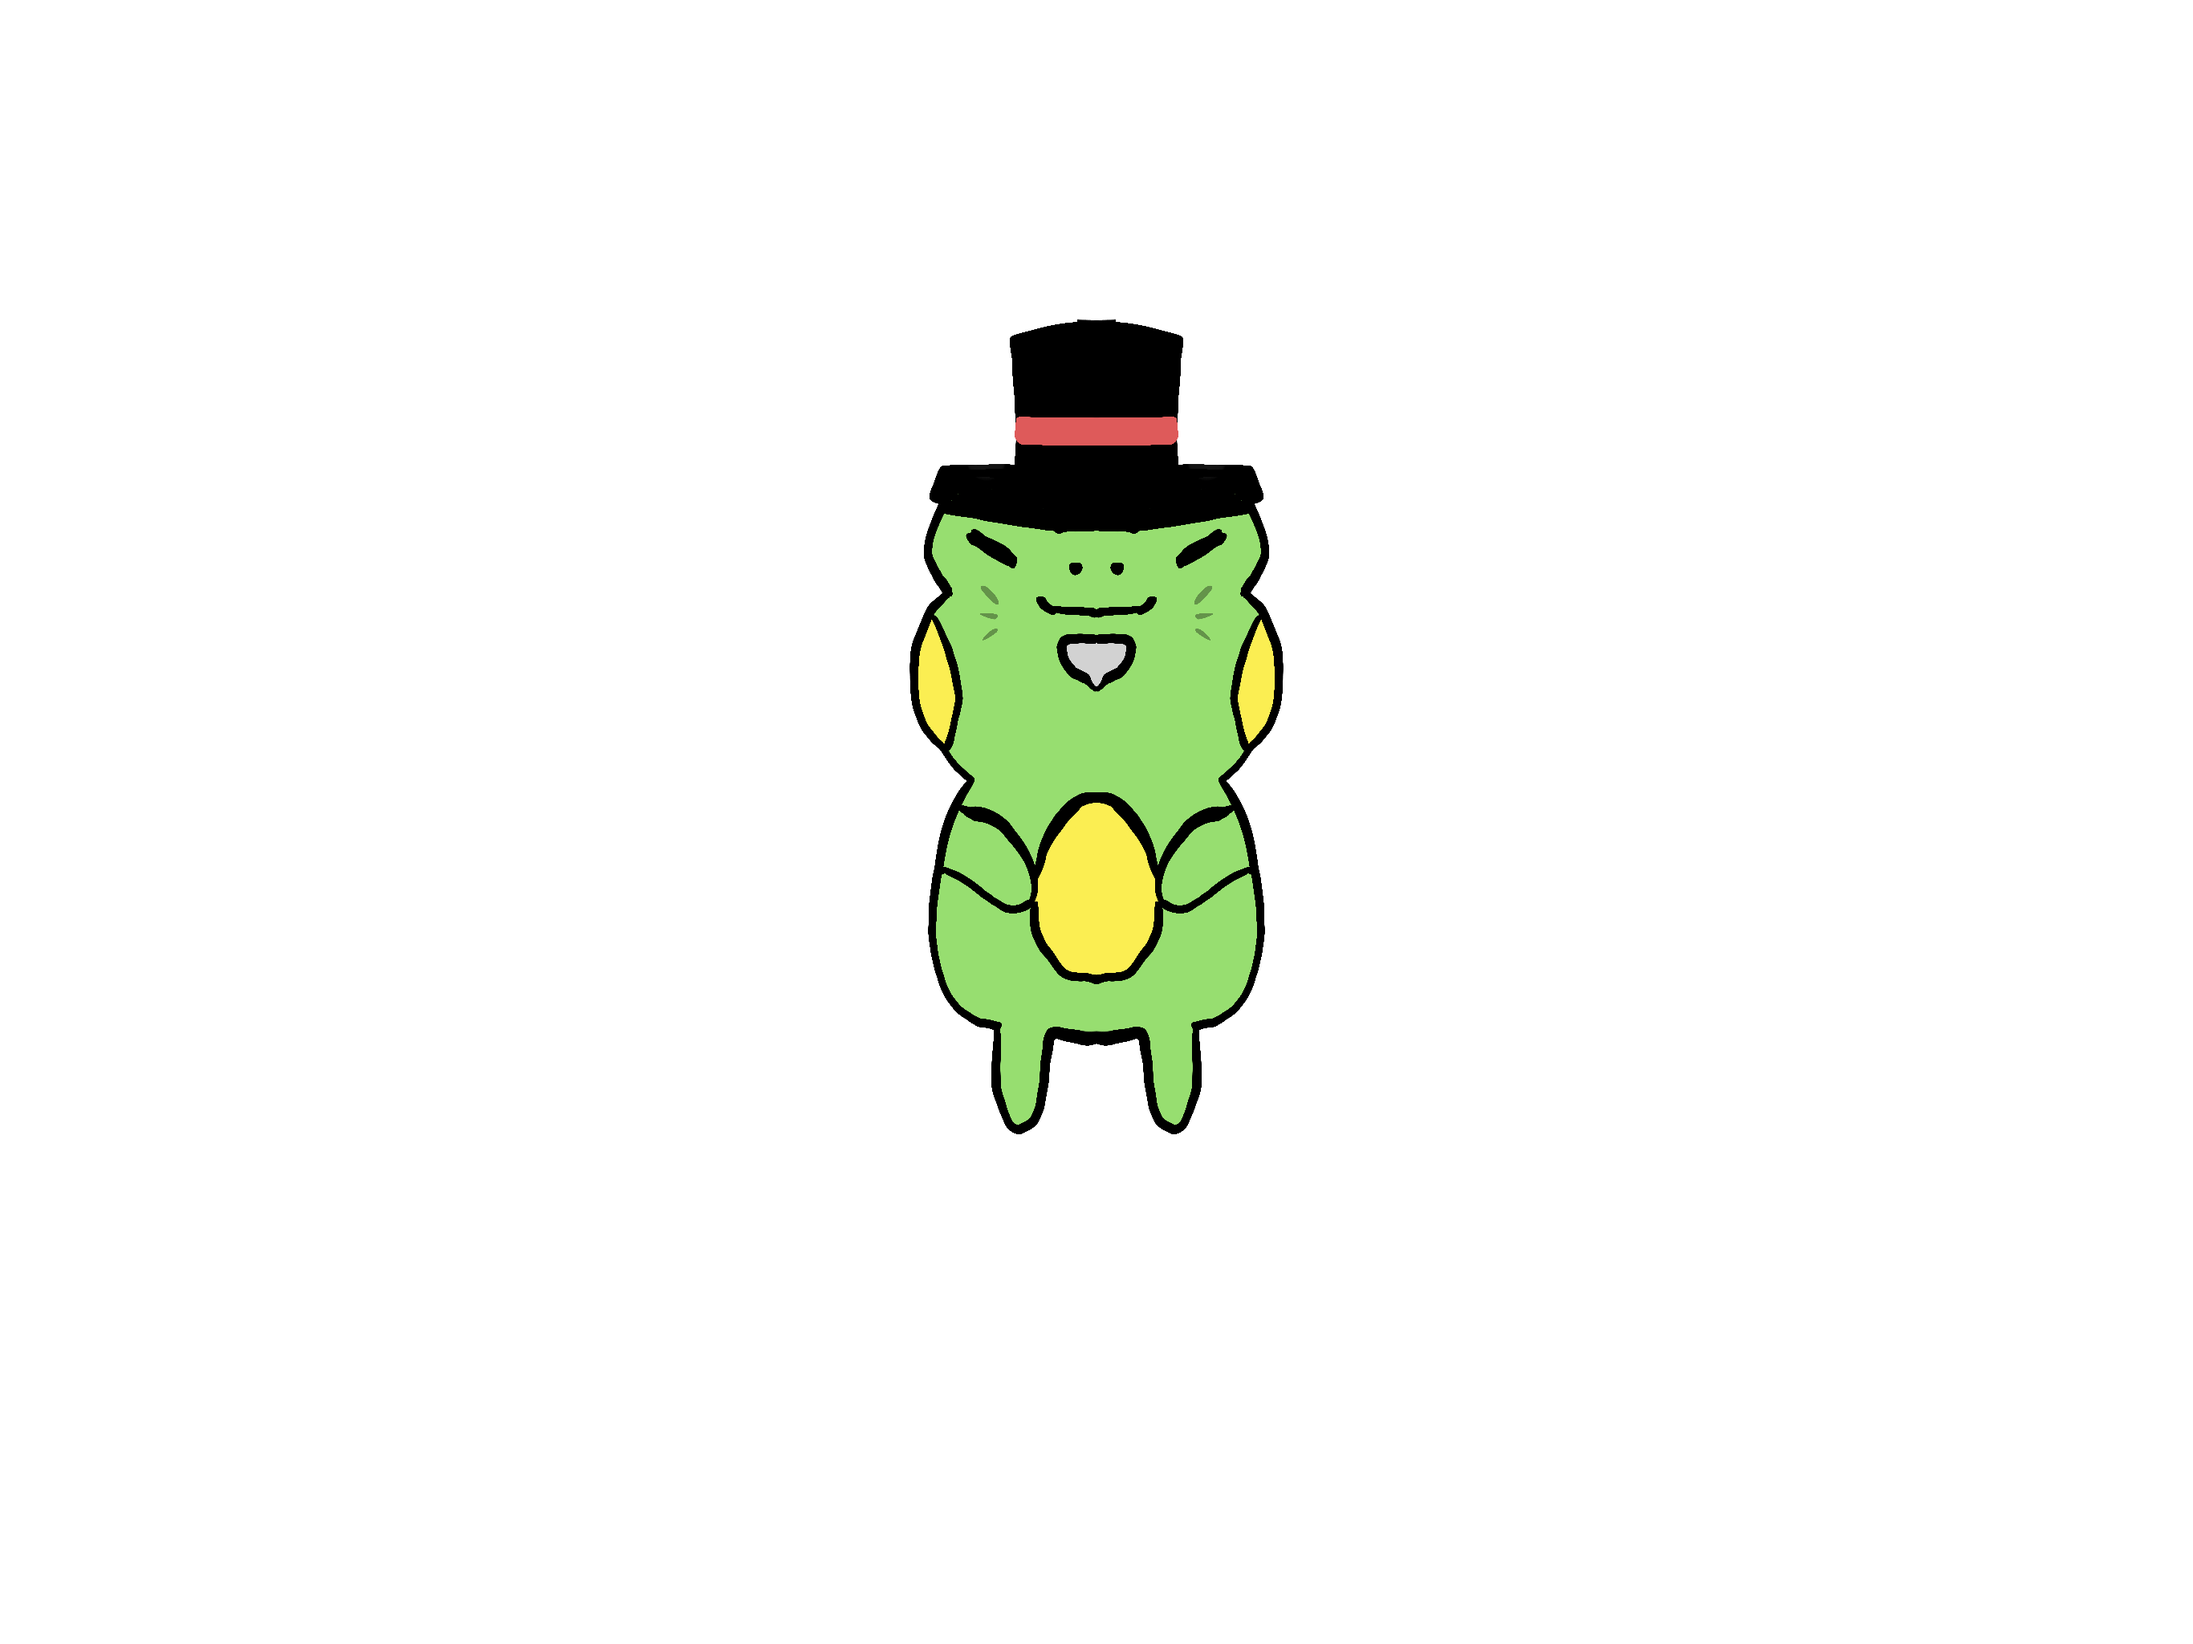
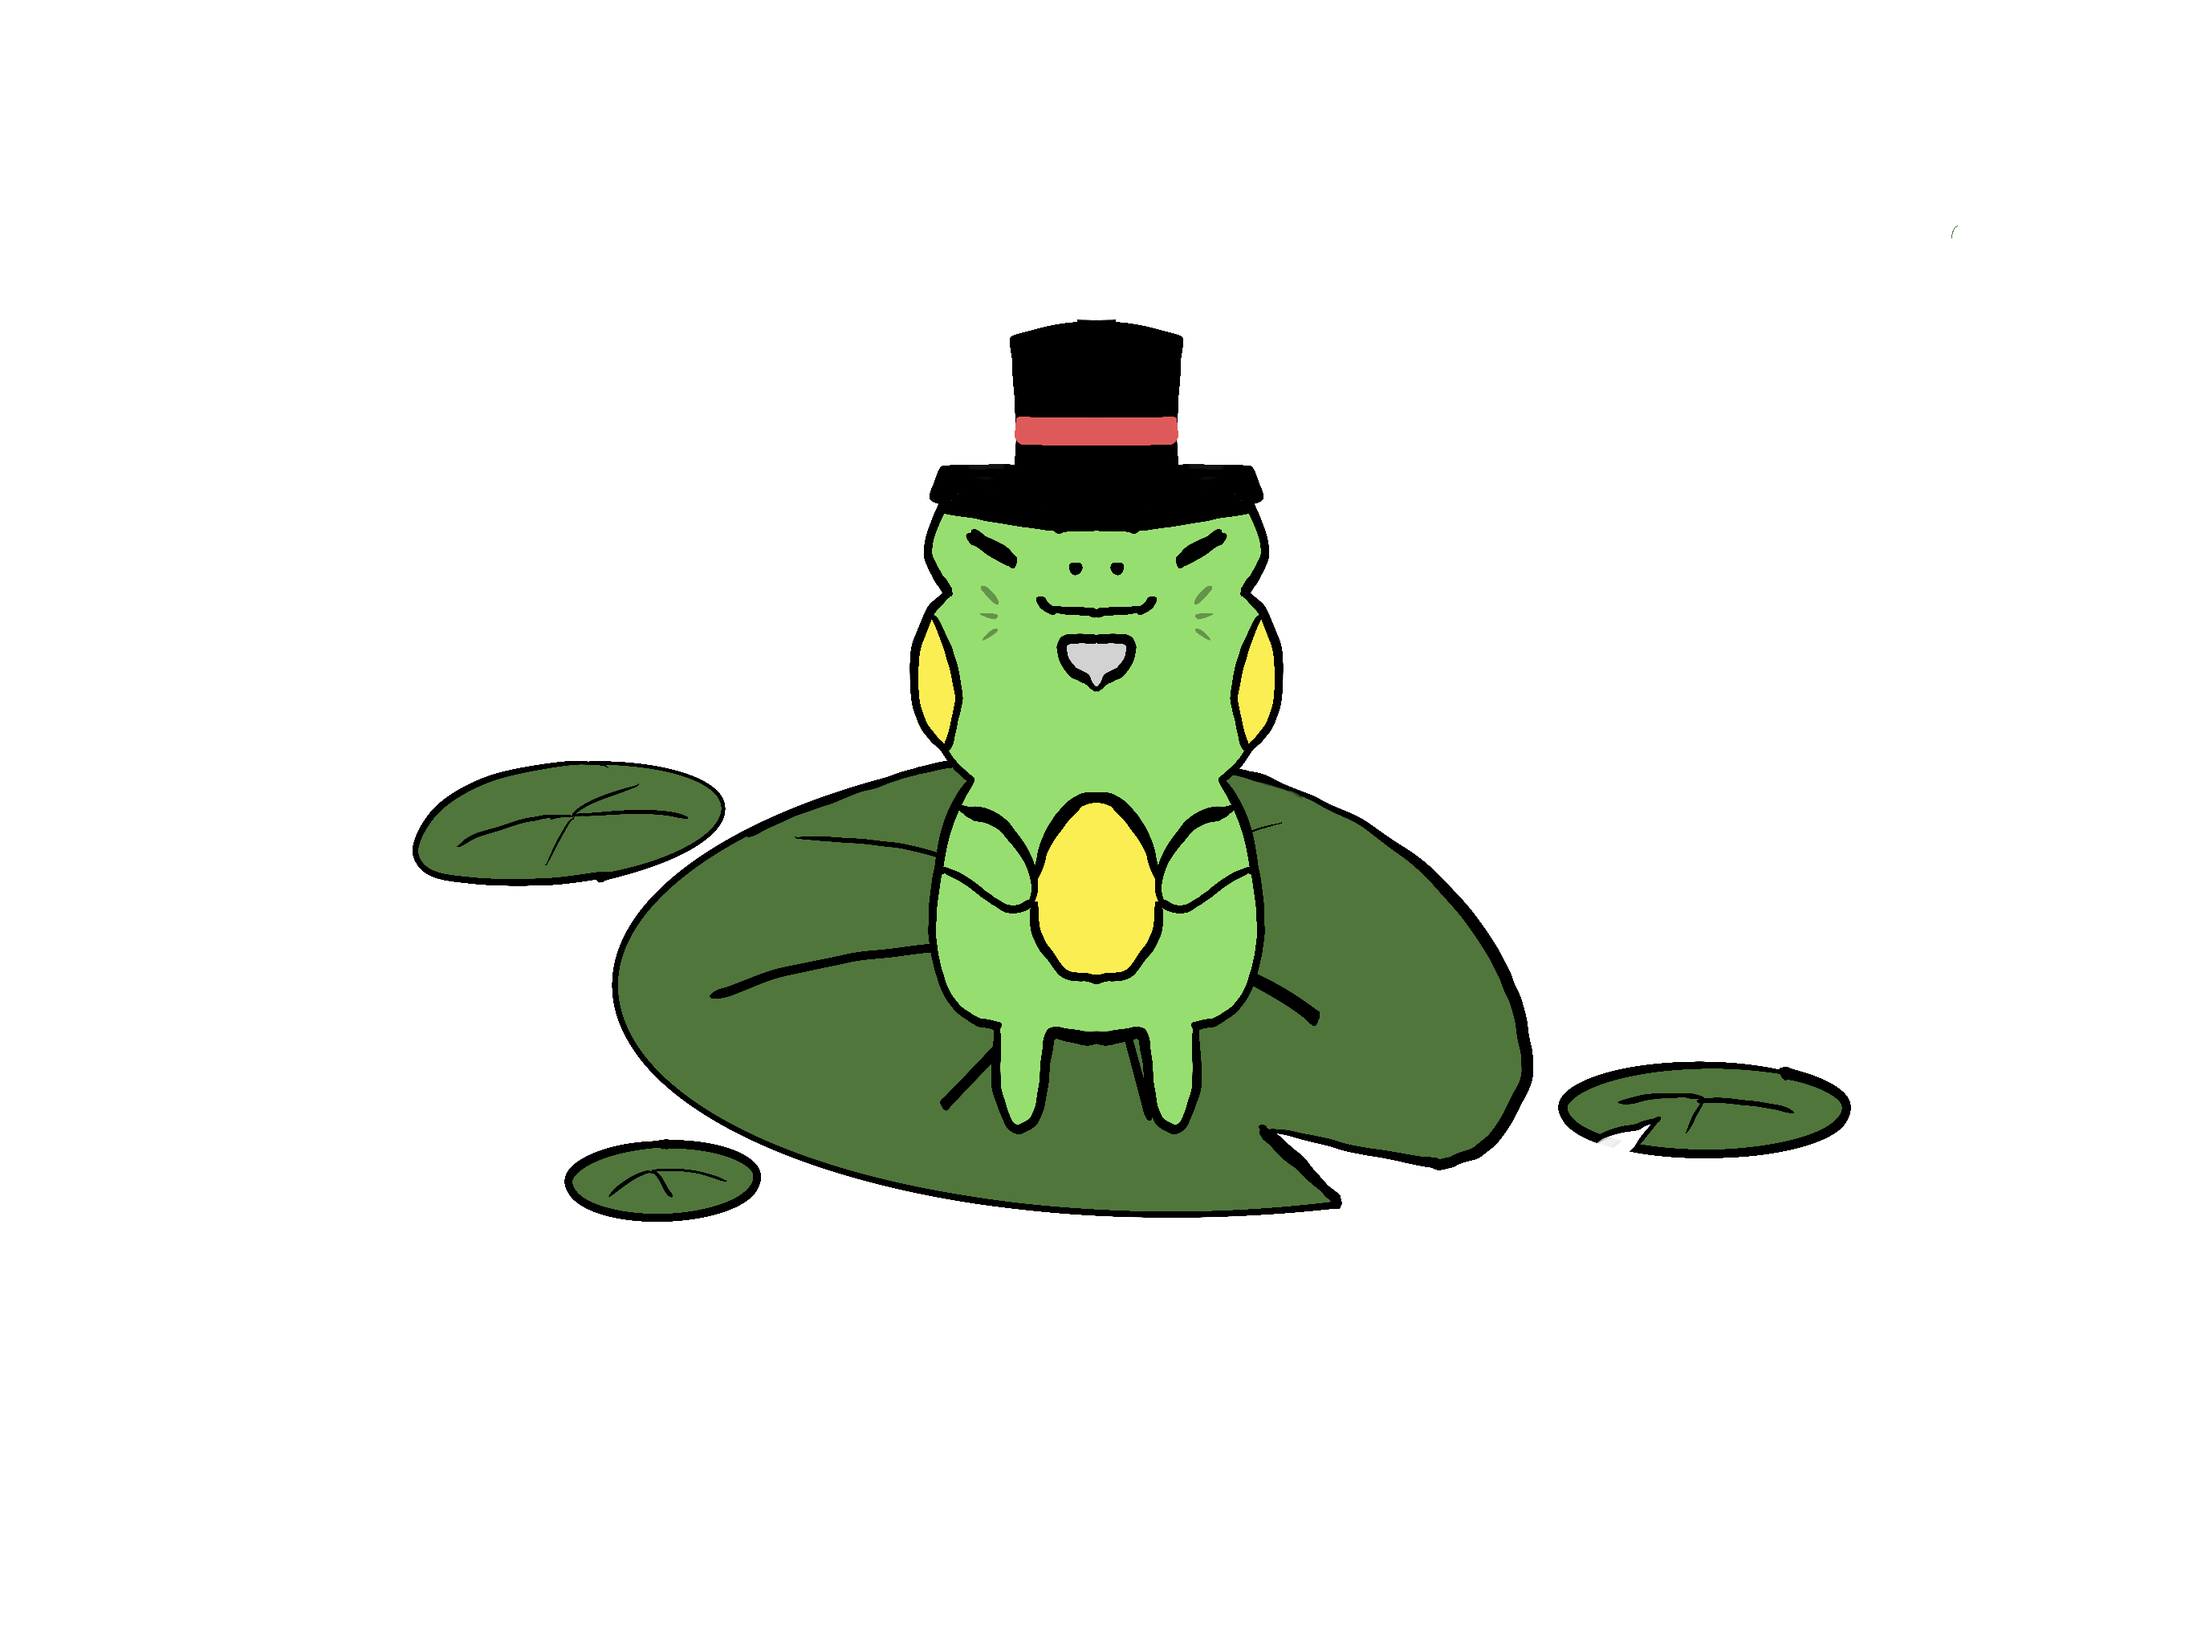
New Image

Changed region(s): [[0.1867, 0.4375, 0.84, 0.75]]

diff --git a/frontend/frontend/src/pages/Dashboard.js b/frontend/frontend/src/pages/Dashboard.js
@@ -2,7 +2,6 @@ import React from "react";
 import app from "../axiosConfig.js";
 import { useState } from "react";
 
-import Lily_Pad from "../imgs/Lily_Pad.png";
 import Frog from "../imgs/Frog.png";
 import Old_Frog from "../imgs/Old_Frog.png";
 import Tadpole_Frog from "../imgs/Tadpole_Frog.png";
@@ -18,7 +17,7 @@ export default function Dashboard() {
         <h1 className="text-3xl font-bold underline">
           TESTING TAILWIND CSS
         </h1>
-        <div class="inset-44">
+        <div class="absolute bottom-20 left-20">
           <img src = {Lily_Pad}>
           </img>
         </div>
